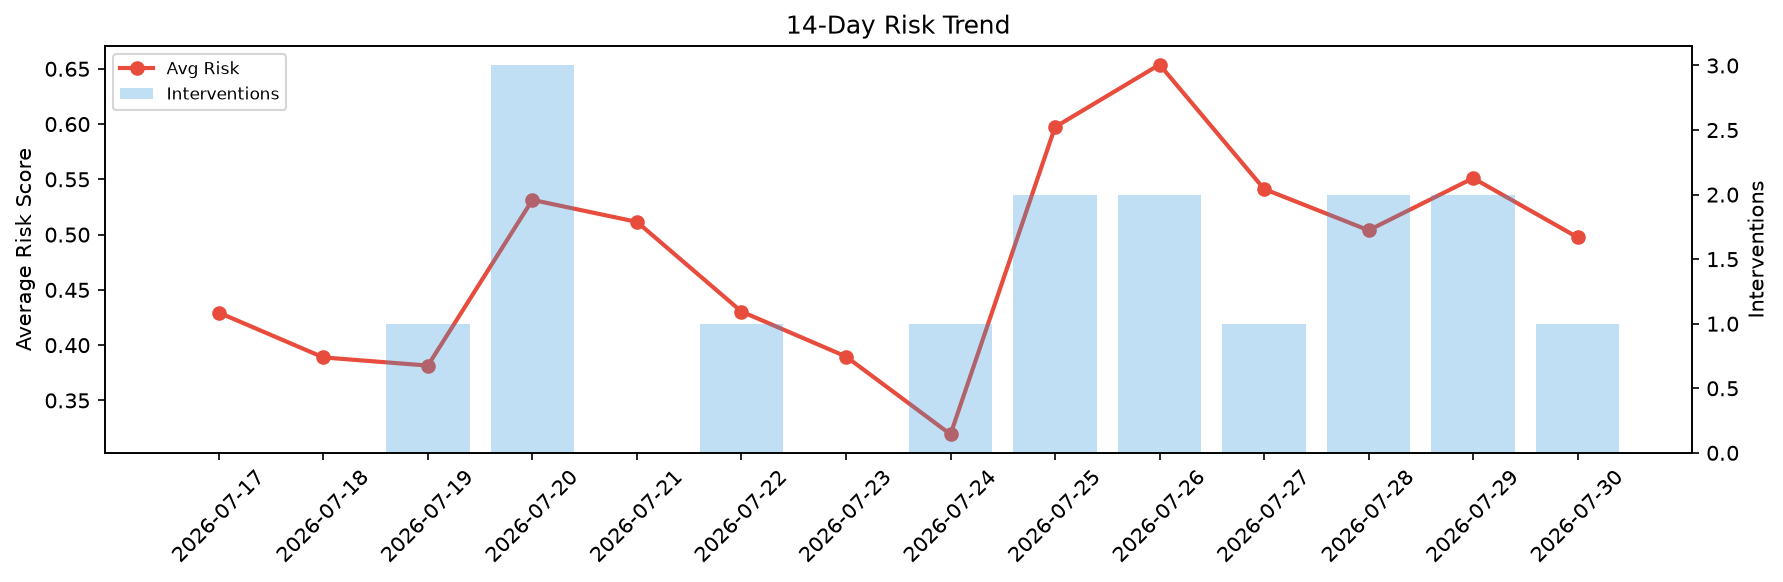
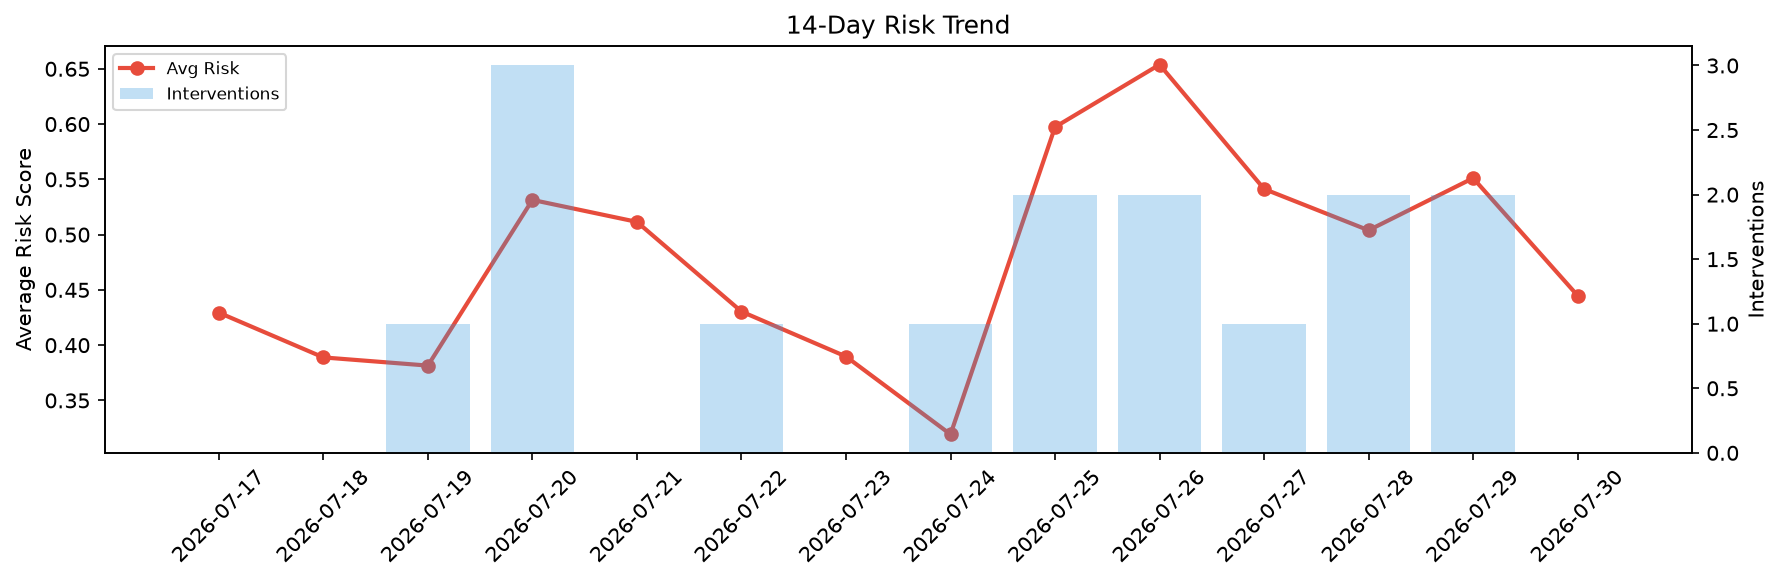
agent-improvement: daily cycle 2026-07-30T10:33

Changed region(s): [[0.8637, 0.5567, 0.9254, 0.8041], [0.8329, 0.3093, 0.8946, 0.5258]]

diff --git a/logs/2026-07-30.md b/logs/2026-07-30.md
@@ -1,6 +1,6 @@
 # Agent Improvement Report — 2026-07-30
 
-**Cycle ID:** `47fe9729` | **Avg Risk:** 0.4975 | **Interventions:** 1/4
+**Cycle ID:** `7b532d01` | **Avg Risk:** 0.4448 | **Interventions:** 0/4
 
 ![Dashboard](2026-07-30_dashboard.png)
 
@@ -10,18 +10,18 @@
 
 | Domain | Risk Score | Decision | Alerts |
 |--------|-----------|----------|--------|
-| code_review | 0.551 | monitor | coverage |
-| incident_response | 0.5267 | monitor | severity |
-| data_pipeline | 0.6415 | intervene | schema_drift, volume_anomaly |
-| deployment | 0.2708 | monitor | none |
+| code_review | 0.5637 | monitor | duplication |
+| incident_response | 0.3175 | monitor | severity |
+| data_pipeline | 0.372 | monitor | schema_drift |
+| deployment | 0.5261 | monitor | none |
 
 ## Delta vs Yesterday
 
 | Domain | Today | Yesterday | Change |
 |--------|-------|-----------|--------|
-| code_review | 0.551 | 0.7614 | 📉 -27.6% |
-| incident_response | 0.5267 | 0.6777 | 📉 -22.3% |
-| data_pipeline | 0.6415 | 0.5239 | 📈 22.4% |
-| deployment | 0.2708 | 0.2416 | 📈 12.1% |
+| code_review | 0.5637 | 0.7614 | 📉 -26.0% |
+| incident_response | 0.3175 | 0.6777 | 📉 -53.2% |
+| data_pipeline | 0.372 | 0.5239 | 📉 -29.0% |
+| deployment | 0.5261 | 0.2416 | 📈 117.8% |
 
 **Refinement:** `{'adjustment': 'maintain', 'trend': 'improving', 'window': 4}`
